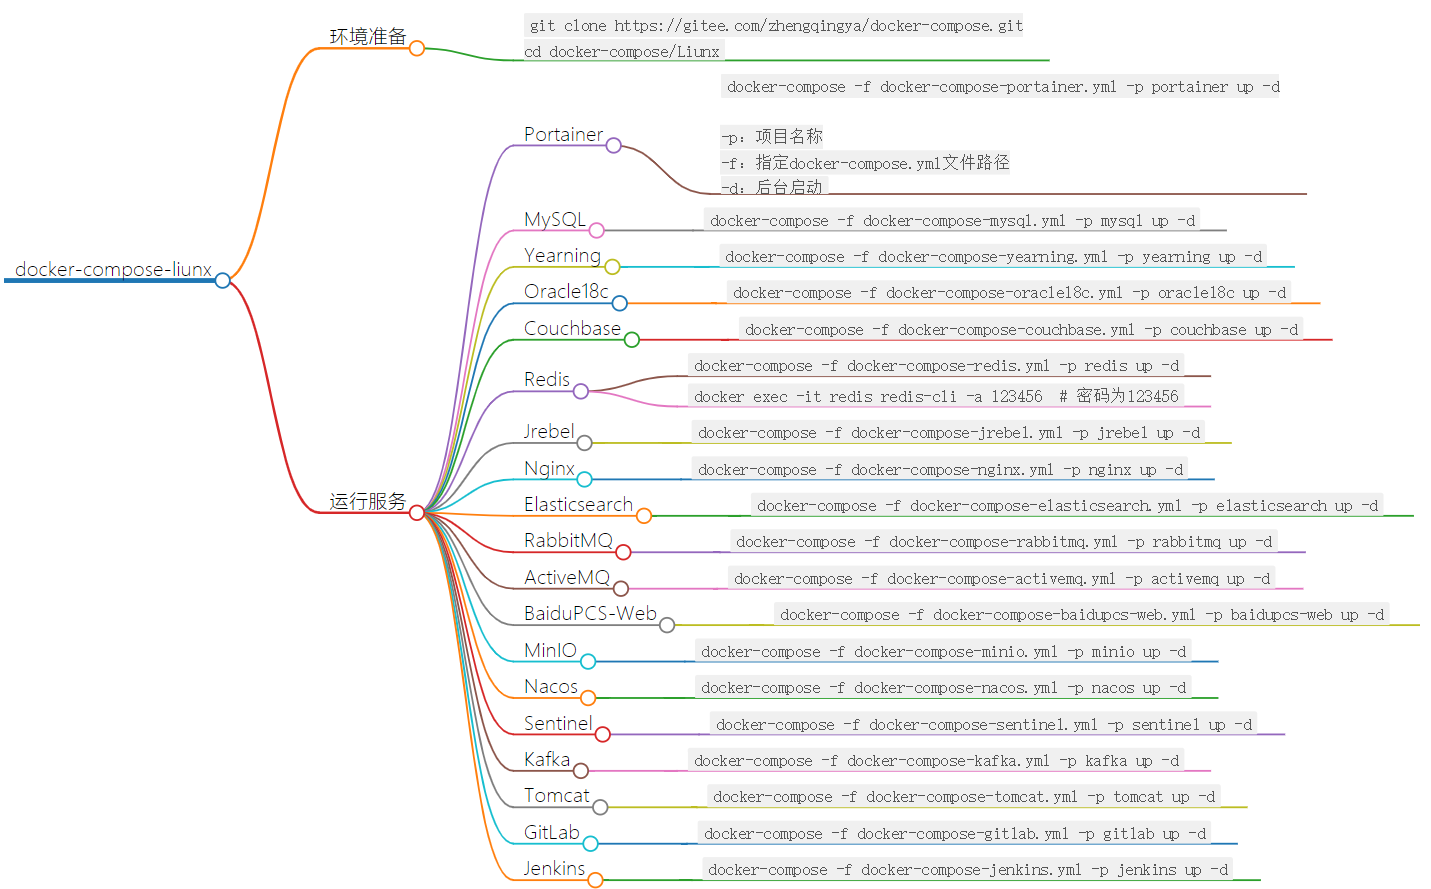
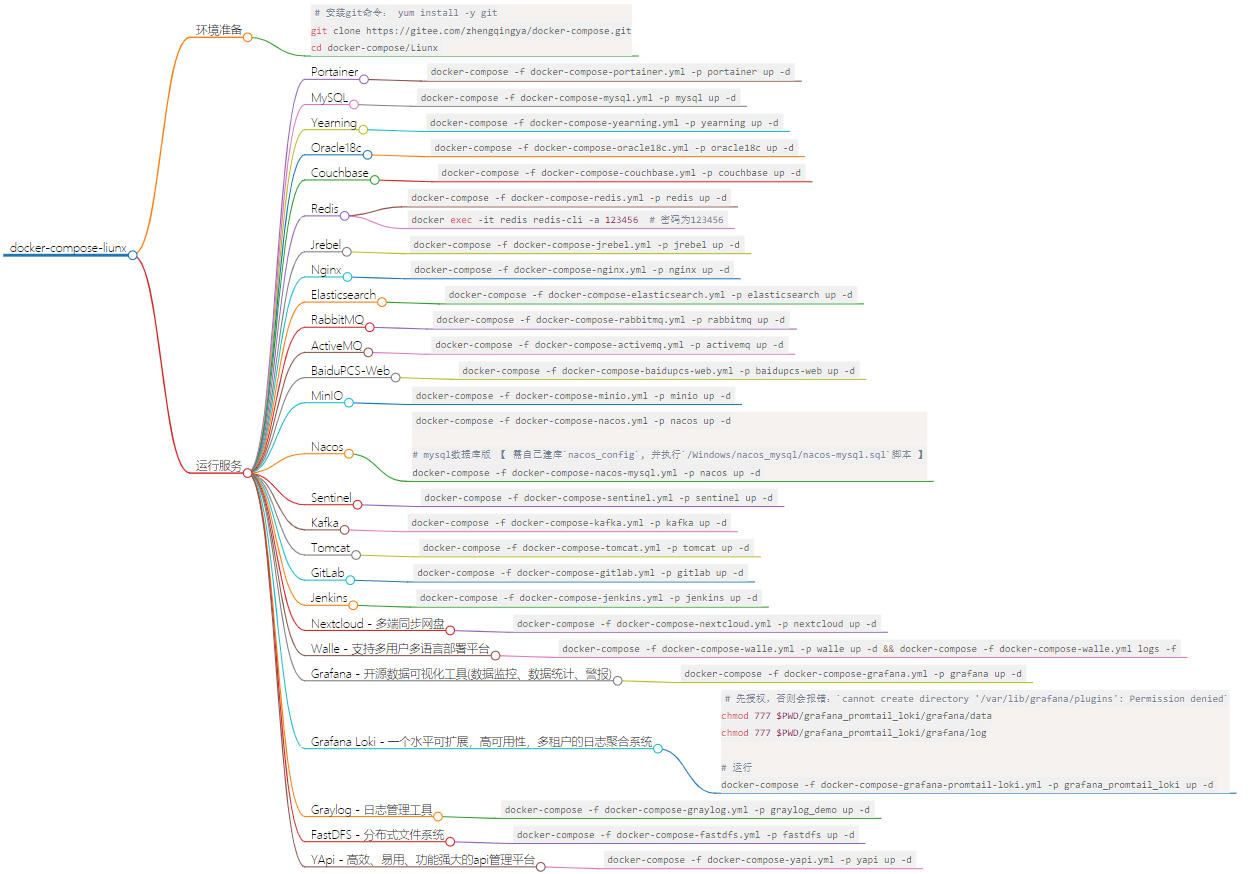
【update】更新文档

Changed region(s): [[0.1562, 0.0, 0.9688, 1.0], [0.0, 0.278, 0.1875, 0.3398]]

diff --git a/docker-compose-liunx.html b/docker-compose-liunx.html
@@ -1,0 +1,25 @@
+<!DOCTYPE html>
+<html>
+<head>
+<meta charset="UTF-8">
+<meta name="viewport" content="width=device-width, initial-scale=1.0">
+<meta http-equiv="X-UA-Compatible" content="ie=edge">
+<title>Markmap</title>
+<style>
+* {
+  margin: 0;
+  padding: 0;
+}
+#mindmap {
+  display: block;
+  width: 100vw;
+  height: 100vh;
+}
+</style>
+
+</head>
+<body>
+<svg id="mindmap"></svg>
+<script src="https://cdn.jsdelivr.net/npm/d3@5"></script><script src="https://cdn.jsdelivr.net/npm/markmap-lib@0.7.11/dist/browser/view.min.js"></script><script>((t,a,e,n)=>{const{Markmap:o,loadPlugins:s}=window.markmap;(a?a(s,e,n):Promise.resolve()).then(()=>{o.create("svg#mindmap",null,t)})})({"t":"heading","d":1,"v":"docker-compose-liunx","c":[{"t":"heading","d":2,"v":"安装docker","c":[{"t":"fence","d":3,"v":"<pre><code class=\"language-shell\"># 通过yum源安装docker\nsudo yum -y install docker\n# 启动docker\nsudo systemctl start docker\n# 开机自启\nsudo systemctl enable docker\n</code></pre>"}]},{"t":"heading","d":2,"v":"<code>docker-compose</code>安装","c":[{"t":"fence","d":3,"v":"<pre><code class=\"language-shell\"># 如果有pip则直接执行此命令即可: sudo pip install -U docker-compose\n\n# 安装依赖\nyum -y install epel-release\n# 安装PIP\nyum -y install python-pip\n# 升级PIP\npip install --upgrade pip\n# 验证pip 版本\npip --version\n# 安装docker compose\npip install -U docker-compose==1.25.0\n# 验证docker compose版本\ndocker-compose --version\n# 安装补全插件\ncurl -L https://raw.githubusercontent.com/docker/compose/1.25.0/contrib/completion/bash/docker-compose > /etc/bash_completion.d/docker-compose\n</code></pre>"}]},{"t":"heading","d":2,"v":"<code>docker-compose</code>卸载","c":[{"t":"fence","d":3,"v":"<pre><code class=\"language-shell\"># pip卸载\npip uninstall docker-compose\n</code></pre>"}]},{"t":"heading","d":2,"v":"<code>docker-compose</code>相关命令","c":[{"t":"fence","d":3,"v":"<pre><code class=\"language-shell\"># 构建镜像\ndocker-compose build\n# 构建镜像，--no-cache表示不用缓存，否则在重新编辑Dockerfile后再build可能会直接使用缓存而导致新编辑内容不生效\ndocker-compose build --no-cache\n# config 校验文件格式是否正确\ndocker-compose -f docker-compose.yml config\n# 运行服务\nocker-compose up -d\n# 启动/停止服务\ndocker-compose start/stop 服务名\n# 停止服务\ndocker-compose down\n# 查看容器日志\ndocker logs -f 容器ID\n# 查看镜像\ndocker-compose images\n# 拉取镜像\ndocker-compose pull 镜像名\n</code></pre>"}]},{"t":"heading","d":2,"v":"常用shell组合","c":[{"t":"fence","d":3,"v":"<pre><code class=\"language-shell\"># 删除所有容器\ndocker stop `docker ps -q -a` | xargs docker rm\n# 删除所有标签为none的镜像\ndocker images|grep \\&lt;none\\>|awk '{print $3}'|xargs docker rmi\n# 查找容器IP地址\ndocker inspect 容器名或ID | grep &quot;IPAddress&quot;\n# 创建网段, 名称: mynet, 分配两个容器在同一网段中 (这样子才可以互相通信)\ndocker network create mynet\ndocker run -d --net mynet --name container1 my_image\ndocker run -it --net mynet --name container1 another_image\n</code></pre>"}]},{"t":"heading","d":2,"v":"环境准备","c":[{"t":"fence","d":3,"v":"<pre><code class=\"language-shell\"># 安装git命令： yum install -y git\ngit clone https://gitee.com/zhengqingya/docker-compose.git\ncd docker-compose/Liunx\n</code></pre>"}]},{"t":"heading","d":2,"v":"运行服务","c":[{"t":"heading","d":3,"v":"Portainer","c":[{"t":"fence","d":4,"v":"<pre><code class=\"language-shell\">docker-compose -f docker-compose-portainer.yml -p portainer up -d\n\n-p：项目名称\n-f：指定docker-compose.yml文件路径\n-d：后台启动\n</code></pre>"}]},{"t":"heading","d":3,"v":"MySQL","c":[{"t":"fence","d":4,"v":"<pre><code class=\"language-shell\">docker-compose -f docker-compose-mysql.yml -p mysql up -d\n</code></pre>"}]},{"t":"heading","d":3,"v":"Yearning","c":[{"t":"fence","d":4,"v":"<pre><code class=\"language-shell\">docker-compose -f docker-compose-yearning.yml -p yearning up -d\n</code></pre>"}]},{"t":"heading","d":3,"v":"Oracle18c","c":[{"t":"fence","d":4,"v":"<pre><code class=\"language-shell\">docker-compose -f docker-compose-oracle18c.yml -p oracle18c up -d\n</code></pre>"},{"t":"blockquote","d":4,"v":"","c":[{"t":"paragraph","d":5,"v":"配置参考：<a href=\"https://zhengqing.blog.csdn.net/article/details/103296040\" title=\"\" target=\"_blank\" rel=\"noopener noreferrer\">Docker(9) 安装Oracle18c</a>"}]}]},{"t":"heading","d":3,"v":"Couchbase","c":[{"t":"fence","d":4,"v":"<pre><code class=\"language-shell\">docker-compose -f docker-compose-couchbase.yml -p couchbase up -d\n</code></pre>"}]},{"t":"heading","d":3,"v":"Redis","c":[{"t":"fence","d":4,"v":"<pre><code class=\"language-shell\">docker-compose -f docker-compose-redis.yml -p redis up -d\n</code></pre>"},{"t":"fence","d":4,"v":"<pre><code class=\"language-shell\">docker exec -it redis redis-cli -a 123456  # 密码为123456\n</code></pre>"}]},{"t":"heading","d":3,"v":"Jrebel","c":[{"t":"fence","d":4,"v":"<pre><code class=\"language-shell\">docker-compose -f docker-compose-jrebel.yml -p jrebel up -d\n</code></pre>"},{"t":"ordered_list","d":4,"v":"","c":[{"t":"list_item","d":5,"v":"1. 激活地址： <code>ip地址:8888/UUID</code> -> 注：UUID可以自己生成，并且必须是UUID才能通过验证 -> <a href=\"http://www.uuid.online/\" title=\"\" target=\"_blank\" rel=\"noopener noreferrer\">UUID在线生成</a>"},{"t":"list_item","d":5,"v":"2. 邮箱随意填写"}]}]},{"t":"heading","d":3,"v":"Nginx","c":[{"t":"fence","d":4,"v":"<pre><code class=\"language-shell\">docker-compose -f docker-compose-nginx.yml -p nginx up -d\n</code></pre>"}]},{"t":"heading","d":3,"v":"Elasticsearch","c":[{"t":"fence","d":4,"v":"<pre><code class=\"language-shell\">docker-compose -f docker-compose-elasticsearch.yml -p elasticsearch up -d\n</code></pre>"}]},{"t":"heading","d":3,"v":"RabbitMQ","c":[{"t":"fence","d":4,"v":"<pre><code class=\"language-shell\">docker-compose -f docker-compose-rabbitmq.yml -p rabbitmq up -d\n</code></pre>"}]},{"t":"heading","d":3,"v":"ActiveMQ","c":[{"t":"fence","d":4,"v":"<pre><code class=\"language-shell\">docker-compose -f docker-compose-activemq.yml -p activemq up -d\n</code></pre>"}]},{"t":"heading","d":3,"v":"BaiduPCS-Web","c":[{"t":"fence","d":4,"v":"<pre><code class=\"language-shell\">docker-compose -f docker-compose-baidupcs-web.yml -p baidupcs-web up -d\n</code></pre>"}]},{"t":"heading","d":3,"v":"MinIO","c":[{"t":"fence","d":4,"v":"<pre><code class=\"language-shell\">docker-compose -f docker-compose-minio.yml -p minio up -d\n</code></pre>"}]},{"t":"heading","d":3,"v":"Nacos","c":[{"t":"fence","d":4,"v":"<pre><code class=\"language-shell\">docker-compose -f docker-compose-nacos.yml -p nacos up -d\n\n# mysql数据库版 【 需自己建库`nacos_config`, 并执行`/Windows/nacos_mysql/nacos-mysql.sql`脚本 】\ndocker-compose -f docker-compose-nacos-mysql.yml -p nacos up -d\n</code></pre>"}]},{"t":"heading","d":3,"v":"Sentinel","c":[{"t":"fence","d":4,"v":"<pre><code class=\"language-shell\">docker-compose -f docker-compose-sentinel.yml -p sentinel up -d\n</code></pre>"}]},{"t":"heading","d":3,"v":"Kafka","c":[{"t":"fence","d":4,"v":"<pre><code class=\"language-shell\">docker-compose -f docker-compose-kafka.yml -p kafka up -d\n</code></pre>"}]},{"t":"heading","d":3,"v":"Tomcat","c":[{"t":"fence","d":4,"v":"<pre><code class=\"language-shell\">docker-compose -f docker-compose-tomcat.yml -p tomcat up -d\n</code></pre>"}]},{"t":"heading","d":3,"v":"GitLab","c":[{"t":"fence","d":4,"v":"<pre><code class=\"language-shell\">docker-compose -f docker-compose-gitlab.yml -p gitlab up -d\n</code></pre>"}]},{"t":"heading","d":3,"v":"Jenkins","c":[{"t":"fence","d":4,"v":"<pre><code class=\"language-shell\">docker-compose -f docker-compose-jenkins.yml -p jenkins up -d\n</code></pre>"}]},{"t":"heading","d":3,"v":"Nextcloud - 多端同步网盘","c":[{"t":"fence","d":4,"v":"<pre><code class=\"language-shell\">docker-compose -f docker-compose-nextcloud.yml -p nextcloud up -d\n</code></pre>"}]},{"t":"heading","d":3,"v":"Walle - 支持多用户多语言部署平台","c":[{"t":"fence","d":4,"v":"<pre><code class=\"language-shell\">docker-compose -f docker-compose-walle.yml -p walle up -d &amp;&amp; docker-compose -f docker-compose-walle.yml logs -f\n</code></pre>"},{"t":"fence","d":4,"v":"<pre><code class=\"language-\">超管：super@walle-web.io \\ Walle123\n所有者：owner@walle-web.io \\ Walle123\n负责人：master@walle-web.io \\ Walle123\n开发者：developer@walle-web.io \\ Walle123\n访客：reporter@walle-web.io \\ Walle123\n</code></pre>"}]},{"t":"heading","d":3,"v":"Grafana - 开源数据可视化工具(数据监控、数据统计、警报)","c":[{"t":"fence","d":4,"v":"<pre><code class=\"language-shell\">docker-compose -f docker-compose-grafana.yml -p grafana up -d\n</code></pre>"}]},{"t":"heading","d":3,"v":"Grafana Loki - 一个水平可扩展，高可用性，多租户的日志聚合系统","c":[{"t":"fence","d":4,"v":"<pre><code class=\"language-shell\"># 先授权，否则会报错：`cannot create directory '/var/lib/grafana/plugins': Permission denied`\nchmod 777 $PWD/grafana_promtail_loki/grafana/data\nchmod 777 $PWD/grafana_promtail_loki/grafana/log\n\n# 运行\ndocker-compose -f docker-compose-grafana-promtail-loki.yml -p grafana_promtail_loki up -d\n</code></pre>"}]},{"t":"heading","d":3,"v":"Graylog - 日志管理工具","c":[{"t":"fence","d":4,"v":"<pre><code class=\"language-shell\">docker-compose -f docker-compose-graylog.yml -p graylog_demo up -d\n</code></pre>"}]},{"t":"heading","d":3,"v":"FastDFS - 分布式文件系统","c":[{"t":"fence","d":4,"v":"<pre><code class=\"language-shell\">docker-compose -f docker-compose-fastdfs.yml -p fastdfs up -d\n</code></pre>"},{"t":"heading","d":4,"v":"测试","c":[{"t":"fence","d":5,"v":"<pre><code class=\"language-shell\"># 等待出现如下日志信息：\n# [2020-07-24 09:11:43] INFO - file: tracker_client_thread.c, line: 310, successfully connect to tracker server 39.106.45.72:22122, as a tracker client, my ip is 172.16.9.76\n\n# 进入storage容器\ndocker exec -it fastdfs_storage /bin/bash\n# 进入`/var/fdfs`目录\ncd /var/fdfs\n# 执行如下命令,会返回在storage存储文件的路径信息,然后拼接上ip地址即可测试访问\n/usr/bin/fdfs_upload_file /etc/fdfs/client.conf test.jpg\n# ex:\nhttp://www.zhengqingya.com:8888/group1/M00/00/00/rBEAAl8aYsuABe4wAAhfG6Hv0Jw357.jpg\n</code></pre>"}]}]},{"t":"heading","d":3,"v":"YApi - 高效、易用、功能强大的api管理平台","c":[{"t":"fence","d":4,"v":"<pre><code class=\"language-shell\">docker-compose -f docker-compose-yapi.yml -p yapi up -d\n</code></pre>"},{"t":"fence","d":4,"v":"<pre><code class=\"language-shell\"> log: mongodb load success...\n 初始化管理员账号成功,账号名：&quot;admin@admin.com&quot;，密码：&quot;ymfe.org&quot;\n部署成功，请切换到部署目录，输入： &quot;node vendors/server/app.js&quot; 指令启动服务器, 然后在浏览器打开 http://127.0.0.1:3000 访问\nlog: -------------------------------------swaggerSyncUtils constructor-----------------------------------------------\nlog: 服务已启动，请打开下面链接访问: \nhttp://127.0.0.1:3000/\nlog: mongodb load success...\n</code></pre>"}]}]}]},(t,a,e)=>t(a,e),["prism"],{"mathJax":false,"prism":true})</script>
+</body>
+</html>

diff --git a/docker-compose-windows.html b/docker-compose-windows.html
@@ -1,0 +1,25 @@
+<!DOCTYPE html>
+<html>
+<head>
+<meta charset="UTF-8">
+<meta name="viewport" content="width=device-width, initial-scale=1.0">
+<meta http-equiv="X-UA-Compatible" content="ie=edge">
+<title>Markmap</title>
+<style>
+* {
+  margin: 0;
+  padding: 0;
+}
+#mindmap {
+  display: block;
+  width: 100vw;
+  height: 100vh;
+}
+</style>
+
+</head>
+<body>
+<svg id="mindmap"></svg>
+<script src="https://cdn.jsdelivr.net/npm/d3@5"></script><script src="https://cdn.jsdelivr.net/npm/markmap-lib@0.7.11/dist/browser/view.min.js"></script><script>((t,a,e,n)=>{const{Markmap:o,loadPlugins:s}=window.markmap;(a?a(s,e,n):Promise.resolve()).then(()=>{o.create("svg#mindmap",null,t)})})({"t":"heading","d":1,"v":"docker-compose-windows","c":[{"t":"heading","d":2,"v":"环境准备","c":[{"t":"blockquote","d":3,"v":"","c":[{"t":"paragraph","d":4,"v":"注：建议使用<code>Git Bash Here</code>执行以下命令"}]},{"t":"fence","d":3,"v":"<pre><code class=\"language-shell script\"># 创建文件夹\nmkdir -p E:/IT_zhengqing/soft/soft-dev/Docker\ncd E:/IT_zhengqing/soft/soft-dev/Docker\n\ngit clone https://gitee.com/zhengqingya/docker-compose.git\ncd docker-compose/Windows\n</code></pre>"}]},{"t":"heading","d":2,"v":"运行服务","c":[{"t":"heading","d":3,"v":"安装Docker可视化界面工具<code>Portainer</code>","c":[{"t":"blockquote","d":4,"v":"","c":[{"t":"paragraph","d":5,"v":"挂载宿主机目录的时候可能会出现如下问题，点击<code>Share it</code>即可<br/>"}]},{"t":"fence","d":4,"v":"<pre><code class=\"language-shell\">docker-compose -f docker-compose-portainer.yml -p portainer up -d\n</code></pre>"},{"t":"blockquote","d":4,"v":"","c":[{"t":"paragraph","d":5,"v":"local_zq  ->  docker.for.win.localhost:2375"}]}]},{"t":"heading","d":3,"v":"MySQL","c":[{"t":"fence","d":4,"v":"<pre><code class=\"language-shell\">docker-compose -f docker-compose-mysql.yml -p mysql up -d\n</code></pre>"}]},{"t":"heading","d":3,"v":"Yearning","c":[{"t":"fence","d":4,"v":"<pre><code class=\"language-shell\">docker-compose -f docker-compose-yearning.yml -p yearning up -d\n</code></pre>"}]},{"t":"heading","d":3,"v":"Couchbase","c":[{"t":"fence","d":4,"v":"<pre><code class=\"language-shell\">docker-compose -f docker-compose-couchbase.yml -p couchbase up -d\n</code></pre>"}]},{"t":"heading","d":3,"v":"Redis","c":[{"t":"fence","d":4,"v":"<pre><code class=\"language-shell\">docker-compose -f docker-compose-redis.yml -p redis up -d\n</code></pre>"},{"t":"fence","d":4,"v":"<pre><code class=\"language-shell\">docker exec -it redis redis-cli -a 123456  # 密码为123456\n</code></pre>"}]},{"t":"heading","d":3,"v":"Jrebel","c":[{"t":"fence","d":4,"v":"<pre><code class=\"language-shell\">docker-compose -f docker-compose-jrebel.yml -p jrebel up -d\n</code></pre>"},{"t":"ordered_list","d":4,"v":"","c":[{"t":"list_item","d":5,"v":"1. 激活地址： <code>http://127.0.0.1:8888/UUID</code> -> 注：UUID可以自己生成，并且必须是UUID才能通过验证 -> <a href=\"http://www.uuid.online/\" title=\"\" target=\"_blank\" rel=\"noopener noreferrer\">UUID在线生成</a>"},{"t":"list_item","d":5,"v":"2. 邮箱随意填写"}]}]},{"t":"heading","d":3,"v":"Nginx","c":[{"t":"fence","d":4,"v":"<pre><code class=\"language-shell\">docker-compose -f docker-compose-nginx.yml -p nginx up -d\n</code></pre>"}]},{"t":"heading","d":3,"v":"Elasticsearch","c":[{"t":"fence","d":4,"v":"<pre><code class=\"language-shell\">docker-compose -f docker-compose-elasticsearch.yml -p elasticsearch up -d\n</code></pre>"}]},{"t":"heading","d":3,"v":"RabbitMQ","c":[{"t":"fence","d":4,"v":"<pre><code class=\"language-shell\">docker-compose -f docker-compose-rabbitmq.yml -p rabbitmq up -d\n</code></pre>"}]},{"t":"heading","d":3,"v":"ActiveMQ","c":[{"t":"fence","d":4,"v":"<pre><code class=\"language-shell\">docker-compose -f docker-compose-activemq.yml -p activemq up -d\n</code></pre>"}]},{"t":"heading","d":3,"v":"BaiduPCS-Web","c":[{"t":"fence","d":4,"v":"<pre><code class=\"language-shell\">docker-compose -f docker-compose-baidupcs-web.yml -p baidupcs-web up -d\n</code></pre>"}]},{"t":"heading","d":3,"v":"MinIO","c":[{"t":"fence","d":4,"v":"<pre><code class=\"language-shell\">docker-compose -f docker-compose-minio.yml -p minio up -d\n</code></pre>"}]},{"t":"heading","d":3,"v":"Nacos","c":[{"t":"fence","d":4,"v":"<pre><code class=\"language-shell\">docker-compose -f docker-compose-nacos.yml -p nacos up -d\n\n# mysql数据库版 【 需自己建库`nacos_config`, 并执行`/Windows/nacos_mysql/nacos-mysql.sql`脚本 】\ndocker-compose -f docker-compose-nacos-mysql.yml -p nacos up -d\n</code></pre>"}]},{"t":"heading","d":3,"v":"Sentinel","c":[{"t":"fence","d":4,"v":"<pre><code class=\"language-shell\">docker-compose -f docker-compose-sentinel.yml -p sentinel up -d\n</code></pre>"}]},{"t":"heading","d":3,"v":"Kafka","c":[{"t":"fence","d":4,"v":"<pre><code class=\"language-shell\">docker-compose -f docker-compose-kafka.yml -p kafka up -d\n</code></pre>"}]},{"t":"heading","d":3,"v":"Tomcat","c":[{"t":"fence","d":4,"v":"<pre><code class=\"language-shell\">docker-compose -f docker-compose-tomcat.yml -p tomcat up -d\n</code></pre>"}]},{"t":"heading","d":3,"v":"GitLab","c":[{"t":"fence","d":4,"v":"<pre><code class=\"language-shell\">docker-compose -f docker-compose-gitlab.yml -p gitlab up -d\n</code></pre>"}]},{"t":"heading","d":3,"v":"Jenkins","c":[{"t":"fence","d":4,"v":"<pre><code class=\"language-shell\">docker-compose -f docker-compose-jenkins.yml -p jenkins up -d\n</code></pre>"}]},{"t":"heading","d":3,"v":"Nextcloud - 多端同步网盘","c":[{"t":"fence","d":4,"v":"<pre><code class=\"language-shell\">docker-compose -f docker-compose-nextcloud.yml -p nextcloud up -d\n</code></pre>"}]},{"t":"heading","d":3,"v":"Walle - 支持多用户多语言部署平台","c":[{"t":"fence","d":4,"v":"<pre><code class=\"language-shell\">docker-compose -f docker-compose-walle.yml -p walle up -d &amp;&amp; docker-compose -f docker-compose-walle.yml logs -f\n</code></pre>"},{"t":"fence","d":4,"v":"<pre><code class=\"language-\">超管：super@walle-web.io \\ Walle123\n所有者：owner@walle-web.io \\ Walle123\n负责人：master@walle-web.io \\ Walle123\n开发者：developer@walle-web.io \\ Walle123\n访客：reporter@walle-web.io \\ Walle123\n</code></pre>"}]},{"t":"heading","d":3,"v":"Grafana - 开源数据可视化工具(数据监控、数据统计、警报)","c":[{"t":"fence","d":4,"v":"<pre><code class=\"language-shell\">docker-compose -f docker-compose-grafana.yml -p grafana up -d\n</code></pre>"}]},{"t":"heading","d":3,"v":"Grafana Loki - 一个水平可扩展，高可用性，多租户的日志聚合系统","c":[{"t":"fence","d":4,"v":"<pre><code class=\"language-shell\">docker-compose -f docker-compose-grafana-promtail-loki.yml -p grafana_promtail_loki up -d\n</code></pre>"}]},{"t":"heading","d":3,"v":"Graylog - 日志管理工具","c":[{"t":"fence","d":4,"v":"<pre><code class=\"language-shell\">docker-compose -f docker-compose-graylog.yml -p graylog_demo up -d\n</code></pre>"}]},{"t":"heading","d":3,"v":"FastDFS - 分布式文件系统","c":[{"t":"fence","d":4,"v":"<pre><code class=\"language-shell\">docker-compose -f docker-compose-fastdfs.yml -p fastdfs up -d\n</code></pre>"},{"t":"heading","d":4,"v":"测试","c":[{"t":"fence","d":5,"v":"<pre><code class=\"language-shell\"># 等待出现如下日志信息：\n# [2020-07-24 05:57:40] INFO - file: tracker_client_thread.c, line: 310, successfully connect to tracker server 192.168.0.88:22122, as a tracker client, my ip is 172.31.0.3\n\n# 进入storage容器\ndocker exec -it fastdfs_storage /bin/bash\n# 进入`/var/fdfs`目录\ncd /var/fdfs\n# 执行如下命令,会返回在storage存储文件的路径信息,然后拼接上ip地址即可测试访问\n/usr/bin/fdfs_upload_file /etc/fdfs/client.conf test.jpg\n# ex:\nhttp://127.0.0.1:8888/group1/M00/00/00/rBEAAl8aYsuABe4wAAhfG6Hv0Jw357.jpg\n</code></pre>"}]}]},{"t":"heading","d":3,"v":"YApi - 高效、易用、功能强大的api管理平台","c":[{"t":"fence","d":4,"v":"<pre><code class=\"language-shell\">docker-compose -f docker-compose-yapi.yml -p yapi up -d\n</code></pre>"},{"t":"fence","d":4,"v":"<pre><code class=\"language-shell\"> log: mongodb load success...\n 初始化管理员账号成功,账号名：&quot;admin@admin.com&quot;，密码：&quot;ymfe.org&quot;\n部署成功，请切换到部署目录，输入： &quot;node vendors/server/app.js&quot; 指令启动服务器, 然后在浏览器打开 http://127.0.0.1:3000 访问\nlog: -------------------------------------swaggerSyncUtils constructor-----------------------------------------------\nlog: 服务已启动，请打开下面链接访问: \nhttp://127.0.0.1:3000/\nlog: mongodb load success...\n</code></pre>"}]}]}]},(t,a,e)=>t(a,e),["prism"],{"mathJax":false,"prism":true})</script>
+</body>
+</html>

diff --git a/Windows使用Docker安装开发环境系列.md b/Windows使用Docker安装开发环境系列.md
@@ -1,14 +1,10 @@
-# Windows使用Docker安装开发环境系列
+# docker-compose-windows
 
 ![docker-compose-windows.png](image/docker-compose-windows.png)
 
-## Docker安装
+## 环境准备
 
-[https://zhengqing.blog.csdn.net/article/details/103441358](https://zhengqing.blog.csdn.net/article/details/103441358)
-
-## 安装开发环境系列
-
-### 环境准备
+Docker安装教程：[https://zhengqing.blog.csdn.net/article/details/103441358](https://zhengqing.blog.csdn.net/article/details/103441358)
 
 > 注：建议使用`Git Bash Here`执行以下命令
 
@@ -20,6 +16,8 @@ cd E:/IT_zhengqing/soft/soft-dev/Docker
 git clone https://gitee.com/zhengqingya/docker-compose.git
 cd docker-compose/Windows
 ```
+
+## 运行服务
 
 ### 安装Docker可视化界面工具`Portainer`
 
@@ -181,8 +179,6 @@ docker-compose -f docker-compose-tomcat.yml -p tomcat up -d
 访问地址：[`http://127.0.0.1:8081`](http://127.0.0.1:8081)
 
 ### GitLab
-
-> docker-compose-gitlab.yml文件参考：[https://github.com/sameersbn/docker-gitlab/blob/master/docker-compose.yml](https://github.com/sameersbn/docker-gitlab/blob/master/docker-compose.yml)
 
 ```shell
 docker-compose -f docker-compose-gitlab.yml -p gitlab up -d

diff --git a/README.md b/README.md
@@ -1,4 +1,4 @@
-# docker-compose
+# docker-compose-liunx
 
 ![docker-compose-liunx.png](image/docker-compose-liunx.png)
 
@@ -232,7 +232,6 @@ docker-compose -f docker-compose-sentinel.yml -p sentinel up -d
 访问地址：[`ip地址:8858`](www.zhengqingya.com:8858)
 登录账号密码：`sentinel/sentinel`
 
-
 ### Kafka
 
 ```shell
@@ -250,8 +249,6 @@ docker-compose -f docker-compose-tomcat.yml -p tomcat up -d
 访问地址：[`ip地址:8081`](www.zhengqingya.com:8081)
 
 ### GitLab
-
-> docker-compose-gitlab.yml文件参考：[https://github.com/sameersbn/docker-gitlab/blob/master/docker-compose.yml](https://github.com/sameersbn/docker-gitlab/blob/master/docker-compose.yml)
 
 ```shell
 docker-compose -f docker-compose-gitlab.yml -p gitlab up -d
